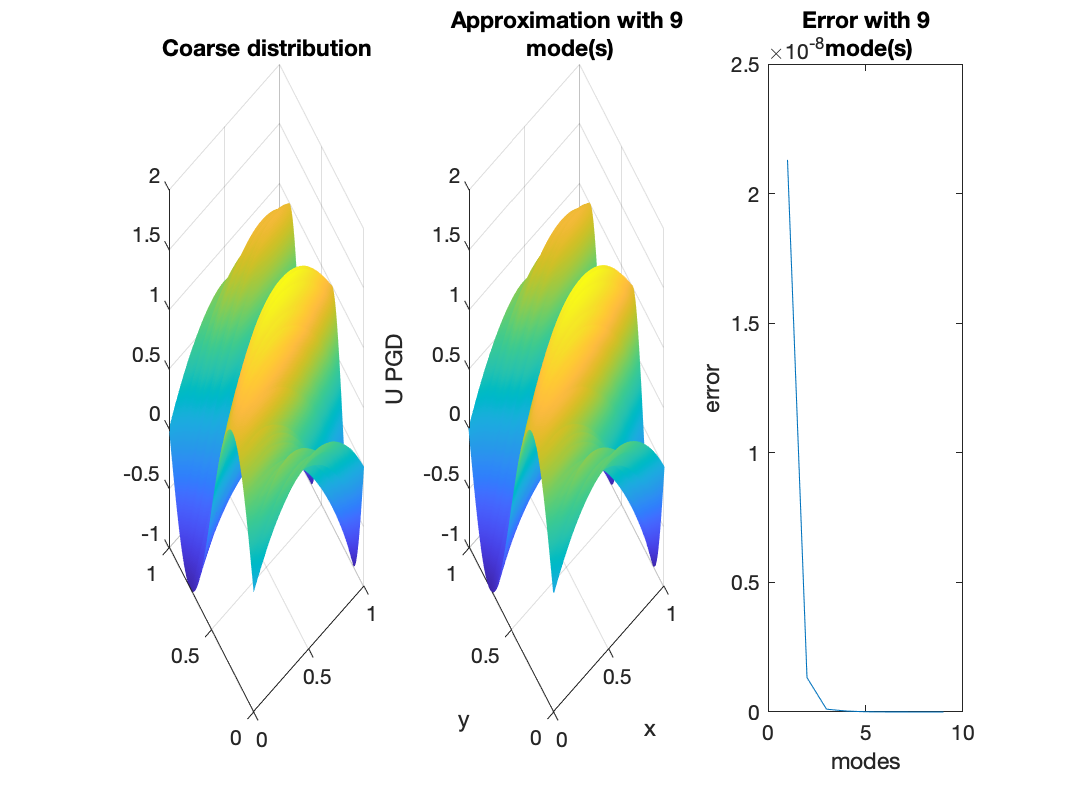
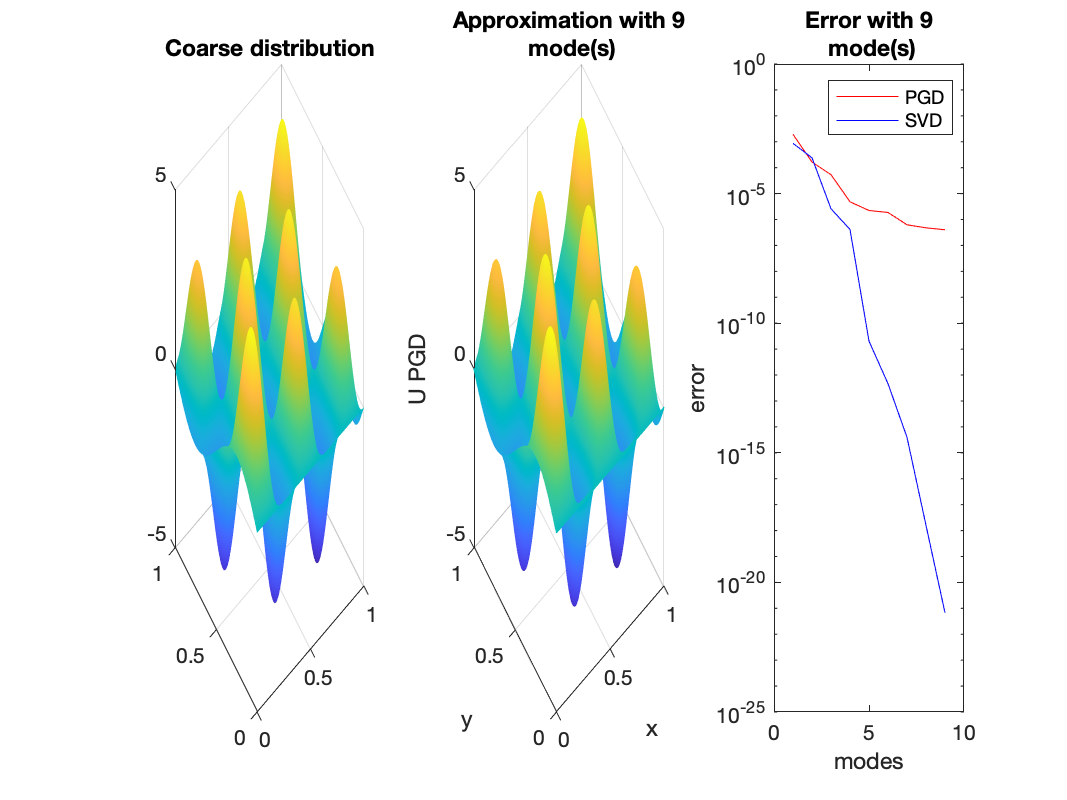
[TP2] add svd (tag:w)

diff --git a/TP2_eleve/TP2_moeeze.m b/TP2_eleve/TP2_moeeze.m
@@ -41,11 +41,11 @@ udLd = -sin(4*pi*lt)/T; % boundary condition
 
 %% discrete force
 if if_force==1
-    %f = (1e3 * (sin(3*pi*lt)/T)' * (sin(5*pi*lx)/L))';
+    f = (1e3 * (sin(3*pi*lt)/T)' * (sin(5*pi*lx)/L))';
     [mesh_x_f,mesh_t_f] = meshgrid(tf,xf);
     [mesh_x_g,mesh_t_g] = meshgrid(tc,xc);
-    fg = 10*rand(nt/10,nx/10);
-    f = interp2(mesh_x_g,mesh_t_g,fg,mesh_x_f,mesh_t_f,'spline');
+    %fg = 10*rand(nt/10,nx/10);
+    %f = interp2(mesh_x_g,mesh_t_g,fg,mesh_x_f,mesh_t_f,'spline');
 end
 %%%%%%%%%%%%%%%%%%%%%%%%%%%%%%%%%%%%%%%%%%%%%%%%%%%%%%%%%%%%%%
 
@@ -113,11 +113,17 @@ figure(3)
 ucl = (1-lx/L)'*ud0d + (lx/L)'*udLd;
 G = F - K*ucl;
 
+% Do SVD
+[X,S,V] = svd(full(u));
+U_SVD = zeros(nt,nx);
+
+
 lambda = lt;
 iter = 0;
 W = zeros(nx, nt) + ucl;
 nb_modes = 9;
 error = zeros(1, nb_modes);
+error_svd = zeros(1, nb_modes);
 for i = 1:nb_modes
     er = 1;
     while er > 1e-3
@@ -137,15 +143,24 @@ for i = 1:nb_modes
     G = G - K*Lambda*lambda;
     W = W + Lambda * lambda;
     
+    % Do SVD
+    U_SVD = X(:,1:i)*S(1:i,1:i)*V(:,1:i)';
+    num_svd = zeros(nx, 1);
+
     num = zeros(nx, 1);
     den = zeros(nx, 1);
     for j=1:nx
         num(j) = (u(j, :) - W(j, :))*It*(u(j, :) - W(j, :))';
         den(j) = (u(j, :))*It*(u(j, :))';
+        %SVD num
+        num_svd(j) = (u(j, :) - U_SVD(j, :))*It*(u(j, :) - U_SVD(j, :))';
     end
     num = num'*Ix*num;
     den = den'*Ix*den;
     error(i) = num/den;
+    %SVD error
+    num_svd = num_svd'*Ix*num_svd;
+    error_svd(i) = num_svd/den;
     figure(2)
     subplot(1,3,2)
     mesh(lx_mesh,lt_mesh,W');
@@ -157,7 +172,10 @@ for i = 1:nb_modes
     title(Title)
     figure(2)
     subplot(1,3,3);
-    plot(error);
+    semilogy(real(error), 'r');
+    hold on
+    semilogy(real(error_svd), 'b');
+    legend('PGD', 'SVD')
     xlabel('modes');
     ylabel('error');
     Title2 = ["Error with "+ i " mode(s)"];
